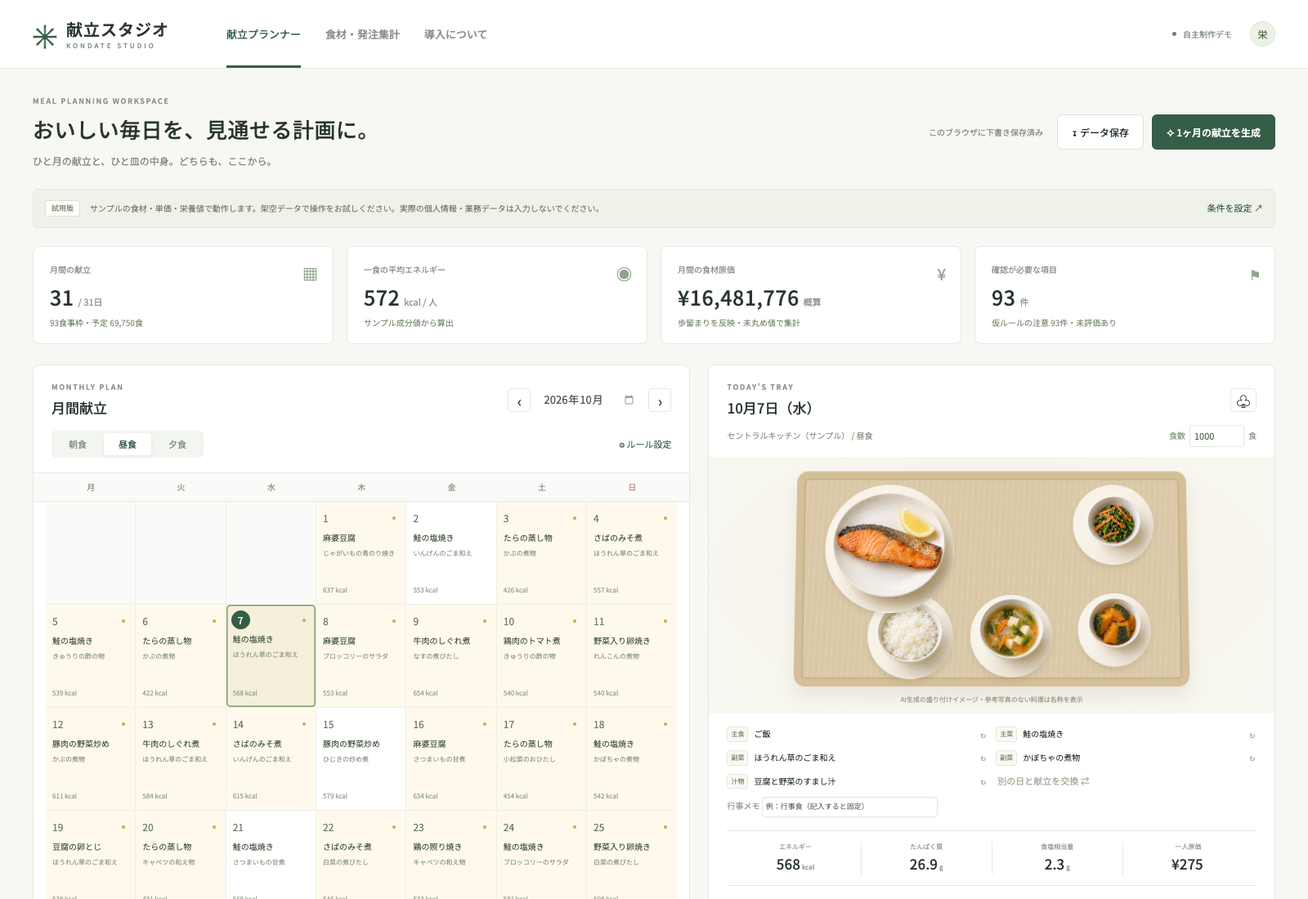
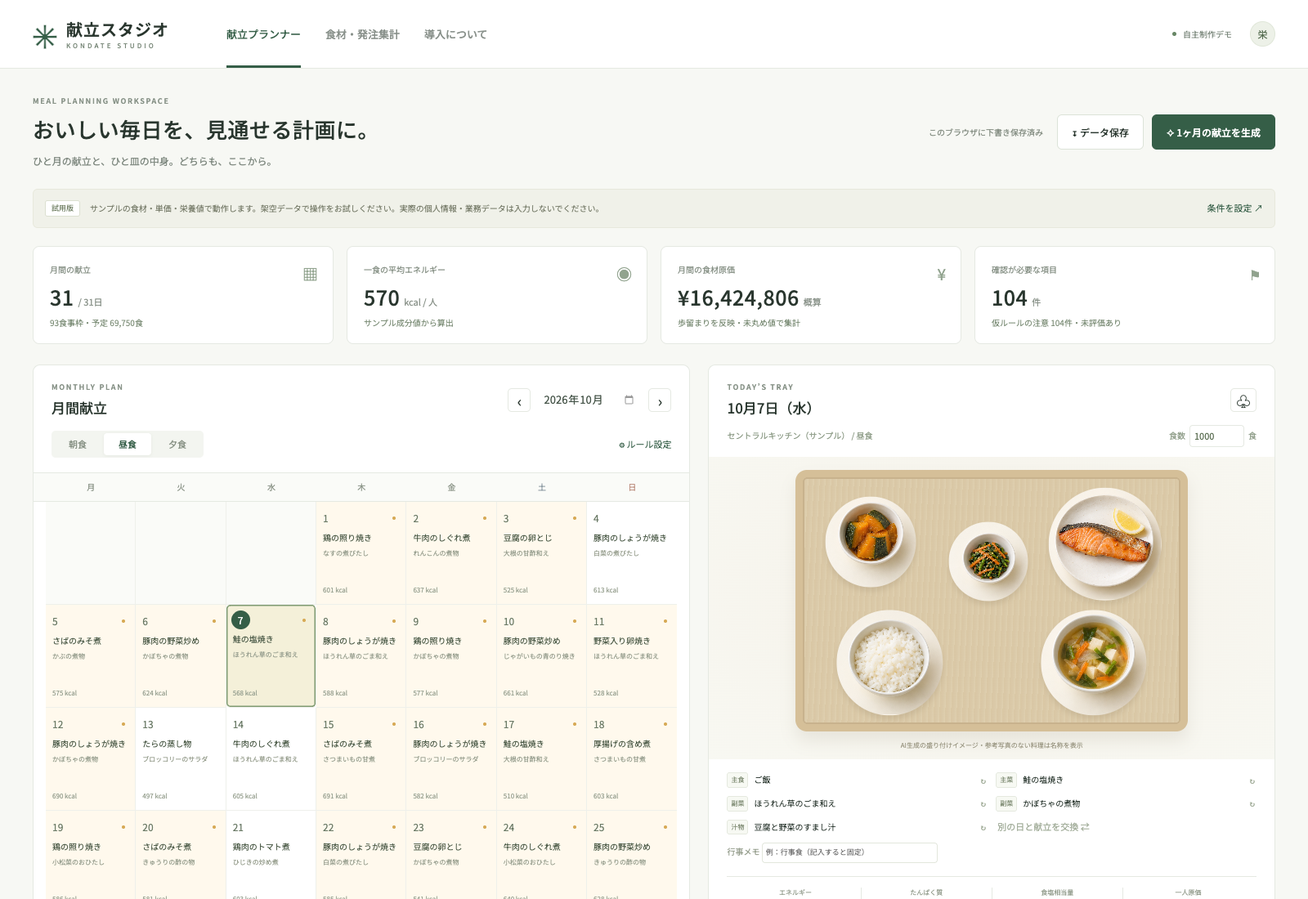
Arrange meal tray in traditional ichiju-sansai positions

diff --git a/demos/kondate-studio/style.css b/demos/kondate-studio/style.css
@@ -1,2 +1,12 @@
 @import url('https://fonts.googleapis.com/css2?family=Noto+Sans+JP:wght@400;500;600;700&display=swap');
-:root{--green:#355e47;--green-dark:#254532;--pale:#edf3ed;--ink:#29362e;--muted:#859087;--line:#e5e9e2;--amber:#bd8130;--red:#bd5145;--paper:#f7f8f4}*{box-sizing:border-box}body{margin:0;background:var(--paper);color:var(--ink);font-family:'Noto Sans JP',sans-serif;font-size:13px;line-height:1.6}button,input,select,textarea{font:inherit}button,a,input,select{touch-action:manipulation}button{cursor:pointer}button{color:inherit}button:focus-visible,a:focus-visible{outline:3px solid #c1d6b5;outline-offset:3px}button:disabled{cursor:not-allowed;opacity:.45}a{color:var(--green)}.topbar{height:84px;background:#fff;border-bottom:1px solid var(--line);display:flex;align-items:center;padding:0 40px;gap:70px}.brand{text-decoration:none;display:flex;align-items:center;gap:10px;color:var(--ink);font-size:20px;font-weight:600;letter-spacing:1px;line-height:1.4}.brand small{display:block;font-size:8px;letter-spacing:3px;font-weight:500;color:#7a897a}.brand-mark{font-size:40px;color:var(--green);line-height:1}.topbar nav{display:flex;height:100%;gap:30px}.nav{background:none;border:none;border-bottom:3px solid transparent;padding:4px 0 0;color:#8a928c;font-weight:500}.nav.active{border-bottom-color:var(--green);color:var(--green)}.top-right{margin-left:auto;display:flex;gap:8px;align-items:center;font-size:10px;color:#7a877b}.private-dot{height:5px;width:5px;background:#688766;border-radius:50%}.avatar{background:#edf1e8;border:1px solid #dfe6d8;border-radius:50%;width:31px;height:31px;display:grid;place-items:center;font-size:12px;margin-left:14px;color:#556c50}main{max-width:1680px;margin:auto;padding:33px 40px 0}.page-heading{display:flex;align-items:center;justify-content:space-between;gap:20px;margin-bottom:25px}.eyebrow{font-size:9px;letter-spacing:1.7px;color:#889388;font-weight:600}.page-heading h1{font-size:26px;font-weight:500;letter-spacing:.5px;margin:6px 0 8px}.page-heading p{color:#818b82;font-size:12px;margin:0}.heading-actions{display:flex;gap:10px;align-items:center}.heading-actions>span{font-size:10px;color:#889186;margin-right:7px}.button{border:1px solid transparent;border-radius:6px;padding:11px 17px;font-weight:500;font-size:12px}.primary{background:var(--green);color:#fff}.primary:hover{background:var(--green-dark)}.secondary{border-color:#dce3d8;background:#fff}.sample-banner{background:#f0f1e9;border:1px solid #e7e8dc;border-radius:6px;padding:11px 14px;display:flex;align-items:center;gap:12px;color:#7b806e;font-size:10px;margin-bottom:22px}.sample-banner .text-button{margin-left:auto;white-space:nowrap}.badge{background:#fff;border:1px solid #dce0d1;border-radius:3px;padding:2px 7px;color:#718064;font-size:9px;white-space:nowrap}.text-button{background:none;border:none;color:var(--green);font-size:11px;padding:3px 0}.metrics{display:grid;grid-template-columns:repeat(4,1fr);gap:16px;margin-bottom:25px}.metric{border:1px solid var(--line);background:#fff;border-radius:8px;padding:17px 20px;position:relative}.metric .metric-label{color:#8a9489;font-size:10px}.metric strong{display:block;font-size:25px;font-weight:500;line-height:1.5;letter-spacing:.5px;margin:5px 0}.metric strong small{font-size:11px;font-weight:400;letter-spacing:0;margin-left:5px;color:#8b948b}.metric .metric-note{font-size:10px;color:#7e8f79}.metric-icon{position:absolute;right:18px;top:18px;color:#91a38e;font-size:19px}.workspace{display:grid;grid-template-columns:minmax(0,1.16fr) minmax(390px,1fr);gap:22px;align-items:start}.card{border:1px solid var(--line);border-radius:9px;background:#fff;overflow:hidden}.panel-heading{display:flex;align-items:center;gap:10px;padding:20px 22px 14px}.panel-heading>div:first-child{margin-right:auto}.panel-heading h2{font-size:17px;line-height:1.6;font-weight:500;margin:4px 0 0}.icon-button{display:grid;place-items:center;min-width:28px;height:29px;background:#fff;border:1px solid var(--line);border-radius:5px;font-size:18px;line-height:1}.icon-button:hover{background:var(--pale)}#monthInput{border:0;width:124px;color:#445347;font-size:13px;background:#fff;min-width:0;padding:5px}input::-webkit-calendar-picker-indicator{opacity:.4}.calendar-toolbar{padding:0 22px 18px;display:flex;align-items:center;justify-content:space-between}.segmented{display:flex;background:#f3f5f0;padding:3px;border-radius:5px;gap:3px}.segmented button{border:0;border-radius:4px;background:transparent;padding:5px 18px;font-size:11px;color:#879184}.segmented button.active{background:white;box-shadow:0 1px 4px #203a1810;color:var(--green);font-weight:600}.weekday-row{display:grid;grid-template-columns:repeat(7,1fr);padding:0 15px;border-top:1px solid var(--line);border-bottom:1px solid var(--line);background:#fafbf8}.weekday-row span{text-align:center;font-size:10px;color:#8d968a;padding:9px}.weekday-row span:nth-child(6){color:#8e9ba4}.weekday-row span:nth-child(7){color:#bd8f80}.calendar{display:grid;grid-template-columns:repeat(7,minmax(0,1fr));padding:0 15px}.day-cell{position:relative;min-height:112px;border:0;border-bottom:1px solid #eef0eb;border-right:1px solid #eef0eb;background:#fff;text-align:left;padding:10px 8px;display:flex;flex-direction:column;gap:4px;overflow:hidden}.day-cell:nth-child(7n){border-right:0}.day-cell:hover{background:#f2f6ef}.day-cell.selected{background:#edf3e9;box-shadow:inset 0 0 0 1.5px #809b72;border-radius:5px;z-index:1}.day-cell.warn{background:#fff9ed}.day-cell.error{background:#fff2ef}.day-cell.selected.warn{background:#f4f0d9}.day-num{font-size:12px;color:#697965;display:flex;align-items:center;justify-content:space-between}.day-num .dot{width:4px;height:4px}.day-cell.selected .date-circle{background:var(--green);color:white;border-radius:50%;width:23px;height:23px;display:grid;place-items:center;margin:-3px -2px}.day-title{font-size:10px;line-height:1.65;color:#4e5d4a;margin-top:3px;overflow-wrap:anywhere}.day-side{font-size:8px;color:#9aa191;line-height:1.5}.day-kcal{font-size:8px;color:#99a292;margin-top:auto}.day-cell.empty{background:#fafbf8;pointer-events:none}.day-event{font-size:8px;color:#a07c3e;white-space:nowrap}.calendar-legend{display:flex;gap:20px;align-items:center;padding:16px 22px;color:#939c8f;font-size:9px}.dot{display:inline-block;width:6px;height:6px;border-radius:50%;margin-right:4px}.green{background:#87a27b}.amber{background:#d7aa56}.red{background:#cd7a69}.calendar-footer{padding:13px 22px;background:#fbfcf9;border-top:1px solid var(--line);display:flex;align-items:center;justify-content:space-between;color:#a0a799;font-size:9px}.day-panel .panel-heading{padding-bottom:7px}.day-meta{display:flex;justify-content:space-between;align-items:center;padding:0 22px 12px;color:#92a08c;font-size:10px}.day-meta label{display:flex;align-items:center;gap:5px}.day-meta input{width:67px;border:1px solid var(--line);border-radius:4px;padding:4px 5px;color:#566a4d;font-size:11px}.tray-area{background:radial-gradient(ellipse at 50% 45%,#f5f1e8,#f8f8f2);padding:16px 20px 10px}.tray{height:238px;max-width:440px;margin:auto;position:relative;background:repeating-linear-gradient(93deg,#d9c7a4 0px,#dac8a7 3px,#dbcbaa 5px,#dfcfaf 7px);border:9px solid #d5bf98;border-radius:14px;box-shadow:inset 0 0 0 2px #c8b28d,0 12px 20px #53442619;transform:perspective(900px) rotateX(4deg)}.tray-dish{position:absolute;border:0;border-radius:50%;box-shadow:0 5px 7px #6a593d25;background-color:#f5f1e7;overflow:hidden;transition:transform .2s;display:grid;place-items:center;padding:5px;font-size:10px;color:#55714b}.tray-dish:hover{transform:translateY(-4px)}.food-image{background-image:url('assets/food-sprite.png');background-size:300% 200%;background-repeat:no-repeat}.tray-dish.main{width:145px;height:145px;top:8px;left:12px}.tray-dish.side1{width:99px;height:99px;right:13px;top:8px}.tray-dish.side2{width:89px;height:89px;right:18px;bottom:10px}.tray-dish.rice{width:104px;height:104px;left:55px;bottom:0px}.tray-dish.soup{width:100px;height:100px;left:170px;bottom:2px}.tray-caption{font-size:8px;text-align:center;color:#a4a18e;padding-top:11px}.dish-list{display:grid;grid-template-columns:1fr 1fr;gap:10px;padding:16px 22px}.dish-row{display:flex;align-items:center;gap:7px;min-width:0}.dish-row .dish-type{font-size:8px;color:#85917a;border:1px solid #e5e9df;background:#f7f9f3;padding:2px 4px;border-radius:3px;white-space:nowrap}.dish-row .dish-name{font-size:10px;flex:1;overflow:hidden;text-overflow:ellipsis;white-space:nowrap}.dish-row button{font-size:11px;background:none;border:0;color:#a4af9c;padding:0 2px}.daily-nutrition{display:flex;margin:0 22px 15px;padding:13px 4px;border-top:1px solid var(--line);border-bottom:1px solid var(--line)}.nutrient{flex:1;border-right:1px solid var(--line);text-align:center}.nutrient:last-child{border:0}.nutrient small{display:block;font-size:8px;color:#969f90}.nutrient strong{display:block;font-size:17px;font-weight:500;line-height:1.6}.nutrient strong em{font-size:8px;font-style:normal;margin-left:2px;color:#929b8b}.day-tabs{display:flex;border-bottom:1px solid var(--line);padding:0 22px;gap:25px}.day-tabs button{border:0;background:none;padding:9px 0;font-size:10px;color:#939d8d;border-bottom:2px solid transparent}.day-tabs button.active{border-color:var(--green);color:var(--green)}#detailBody{padding:8px 22px 18px;max-height:275px;overflow:auto}.ingredients-table{border-collapse:collapse;width:100%;font-size:10px;text-align:left}.ingredients-table th{font-size:8px;font-weight:400;color:#9aa38f;padding:8px 4px}.ingredients-table td{border-top:1px solid #f0f2ec;padding:8px 4px;color:#69735e}.ingredients-table td.number{text-align:right;font-variant-numeric:tabular-nums}.ingredients-table th.number{text-align:right}.table-note{font-size:8px;color:#a1a895;margin-top:10px}.bottom-grid{display:grid;grid-template-columns:1.16fr 1fr;gap:22px;margin-top:22px}.summary-card{padding-bottom:17px}.summary-card .panel-heading h2{font-size:15px}.summary-card .panel-heading{padding-bottom:12px}.check-row{display:flex;align-items:center;padding:8px 22px;font-size:10px;gap:9px}.check-row .count{margin-left:auto}.check-icon{background:#edf3e8;border-radius:50%;color:#6e8d5f;width:18px;height:18px;display:grid;place-items:center;font-size:10px}.check-icon.warn{background:#fcf1db;color:#b48230}.check-icon.unknown{background:#f1f2ef;color:#a4ab9c}.muted{color:#9aa292}.small{font-size:10px}#notes{display:block;width:calc(100% - 44px);margin:0 22px;height:103px;resize:vertical;border:1px solid #e7ebdf;border-radius:5px;background:#fbfcf8;padding:12px;font-size:10px;line-height:1.9;color:#65745c}textarea::placeholder{color:#b2b8a6}footer{display:flex;align-items:center;padding:25px 0;font-size:10px;color:#7c8b71;gap:17px}footer span{font-size:9px;color:#a7ae9f}footer button{margin-left:auto}.alternate-view{padding:28px;min-height:600px}.alternate-view h2{font-weight:500;font-size:21px;margin-top:0}.alternate-view .ingredients-table{font-size:12px}.alternate-view .ingredients-table th{font-size:11px}.alternate-view .ingredients-table td{padding:12px 6px}.section-intro{color:#87927d;margin-bottom:25px;font-size:12px}.source-block{border-bottom:1px solid var(--line);padding:15px 0}.source-block h3{font-size:14px;font-weight:500}.source-block p{font-size:12px;line-height:1.9;color:#7e8c72}.source-block small{color:#a1ab98}dialog{border:1px solid #e0e7d8;border-radius:12px;padding:25px;width:min(660px,calc(100vw - 32px));max-height:88vh;color:var(--ink);box-shadow:0 25px 80px #17281830}dialog::backdrop{background:#1a2e244f;backdrop-filter:blur(3px)}.dialog-header{display:flex;justify-content:space-between;align-items:center;margin-bottom:20px}.dialog-header h2{font-size:20px;font-weight:500;margin:4px 0}.dialog-actions{display:flex;justify-content:flex-end;gap:10px;margin-top:20px}.settings-grid{display:grid;grid-template-columns:1fr 1fr;gap:16px}.field{display:flex;flex-direction:column;gap:6px;font-size:11px}.field input,.field select{border:1px solid #dce4d4;padding:9px;border-radius:5px;background:#fff;width:100%}.field small{color:#97a28d;font-size:9px}.settings-section{margin:22px 0 12px;border-bottom:1px solid var(--line);padding-bottom:7px;font-size:12px;font-weight:500}.check-label{display:flex;align-items:center;gap:8px;font-size:11px;margin:10px 0}.swap-option{display:flex;align-items:center;border:1px solid var(--line);background:#fff;border-radius:7px;text-align:left;width:100%;padding:13px;margin:8px 0;gap:12px}.swap-option:hover{border-color:#93ad82;background:#f5f8f0}.swap-option>div:first-child{flex:1}.swap-option strong{font-size:12px;font-weight:500}.swap-option small{display:block;font-size:9px;color:#94a086}.swap-option.selected{border-color:var(--green)}.issue{padding:11px 12px;border:1px solid #f0e1c3;background:#fff9ee;border-radius:6px;margin:8px 0;color:#9a7533;font-size:10px;line-height:1.8}.issue.error{background:#fff1ef;border-color:#f0d2cb;color:#a65d4f}.issue.unknown{background:#f5f6f2;color:#8a947c;border-color:#e7ebdf}.issue button{display:block;font-size:10px;background:none;border:0;color:var(--green);margin-top:5px}.success{padding:15px;color:var(--green);background:#f0f6e9;border-radius:6px;font-size:11px}.report-group{margin:18px 0}.report-group h3{font-size:13px;font-weight:500}.toast-enter,#toast.show{opacity:1;transform:translate(-50%,0)}#toast{position:fixed;bottom:28px;left:50%;transform:translate(-50%,15px);background:#314e3a;color:#fff;border-radius:7px;padding:12px 22px;font-size:12px;box-shadow:0 8px 30px #17321b30;opacity:0;transition:.2s;pointer-events:none;z-index:9;max-width:90vw}.month-controls{display:flex;gap:12px;align-items:center;margin:15px 0}.empty-state{color:#9ba590;padding:30px;text-align:center}.report-totals{padding:15px;background:#f3f6ed;border-radius:6px;font-size:12px;margin:18px 0}.receipt-status{font-size:9px;color:#8f9983}.review-action{margin:14px 22px;padding:12px;border:1px solid var(--line);border-radius:5px}.review-action button{width:100%}.review-action small{display:block;text-align:center;margin-top:6px;font-size:9px;color:#9ba48d}[hidden]{display:none!important}@media(min-width:1450px){.day-cell{min-height:126px}.tray{height:264px;max-width:480px}.tray-dish.main{left:27px;width:158px;height:158px}.tray-dish.rice{left:80px}.tray-dish.soup{left:205px}.tray-dish.side1{right:32px}.tray-dish.side2{right:37px;bottom:15px}}@media(max-width:1150px){.topbar{gap:35px;padding:0 24px}.topbar nav{gap:20px}main{padding:25px 24px 0}.heading-actions>span{display:none}.page-heading h1{font-size:22px}.workspace{grid-template-columns:minmax(0,1.1fr) minmax(350px,1fr);gap:15px}.panel-heading{padding-left:15px;padding-right:15px}.day-cell{padding:8px 5px;min-height:110px}.calendar{padding:0 8px}.tray-area{padding-left:12px;padding-right:12px}.tray{height:220px}.tray-dish.main{width:130px;height:130px}.tray-dish.rice{left:35px;width:92px;height:92px}.tray-dish.soup{left:142px;width:90px;height:90px}.tray-dish.side1{width:85px;height:85px}.tray-dish.side2{width:80px;height:80px;right:11px}.day-title{font-size:9px}.dish-list{padding:15px}.calendar-legend{gap:12px;padding:15px;font-size:8px}.calendar-footer{padding:10px 15px;font-size:8px}.metric{padding:15px}.metric strong{font-size:22px}}@media(max-width:900px){.workspace{grid-template-columns:1fr}.day-panel{display:grid;grid-template-columns:1fr 1fr}.day-panel .panel-heading,.day-panel .day-meta{grid-column:1/-1}.tray-area{grid-row:3/6}.dish-list{grid-column:2;grid-template-columns:1fr;align-content:start}.daily-nutrition{grid-column:2;align-self:end}.day-tabs,#detailBody{grid-column:1/-1}.tray{max-width:370px;height:230px}.bottom-grid{grid-template-columns:1fr 1fr}.page-heading{align-items:flex-start}.heading-actions{flex-direction:column}.heading-actions .button{padding:8px 12px;font-size:11px}.day-cell{min-height:115px}.day-title{font-size:11px}.day-side{font-size:9px}.metric strong{font-size:20px}.top-right{display:none}}@media(max-width:600px){.topbar{height:auto;min-height:70px;flex-wrap:wrap;gap:10px;padding:16px 18px 0}.brand{font-size:17px}.brand-mark{font-size:33px}.topbar nav{width:100%;gap:24px;height:39px}.nav{font-size:11px}main{padding:23px 14px 0}.page-heading{flex-direction:column;gap:18px}.page-heading h1{font-size:21px}.page-heading p{font-size:10px}.heading-actions{flex-direction:row;width:100%}.heading-actions .button{flex:1}.sample-banner{align-items:flex-start;font-size:9px;padding:10px;gap:8px}.sample-banner .text-button{display:none}.metrics{grid-template-columns:1fr 1fr;gap:8px;margin-bottom:16px}.metric{padding:13px}.metric strong{font-size:22px;margin:4px 0}.metric-icon{right:12px;top:12px;font-size:16px}.metric-note{font-size:9px!important}.panel-heading{padding:16px 12px 12px;gap:5px}.panel-heading h2{font-size:15px}.eyebrow{font-size:8px}#monthInput{font-size:12px;width:119px}.calendar-toolbar{padding:0 12px 12px}.segmented button{padding:5px 16px}.calendar{padding:0 6px}.day-cell{padding:8px 3px;min-height:108px;gap:2px}.day-num{font-size:10px}.day-title{font-size:9px;line-height:1.55}.day-side{font-size:7px}.day-kcal{font-size:7px}.day-event{font-size:7px;white-space:normal}.calendar-legend{font-size:8px;gap:11px;padding:13px 10px}.calendar-footer>span{max-width:220px}.day-panel{display:block}.day-panel .tray-area{padding:18px}.day-panel .dish-list{display:grid;grid-template-columns:1fr 1fr}.tray{height:225px;max-width:355px}.tray-dish.main{left:15px}.tray-dish.side1{right:20px}.tray-dish.side2{right:24px}.tray-dish.soup{left:151px}.tray-dish.rice{left:43px}.bottom-grid{grid-template-columns:1fr;gap:15px;margin-top:15px}.alternate-view{padding:17px;overflow-x:auto}.settings-grid{grid-template-columns:1fr 1fr;gap:12px}.field{font-size:10px}.field small{font-size:8px}footer{flex-wrap:wrap;font-size:9px;gap:10px}footer span{font-size:8px}footer button{font-size:9px}.report-totals{font-size:10px}}@media print{.topbar,.heading-actions,.sample-banner,.day-panel,.bottom-grid,footer,.calendar-toolbar,.text-button,.metrics{display:none}.workspace{display:block}.calendar-panel{border:0}.calendar{padding:0}.day-cell{min-height:130px}main{padding:0}.page-heading h1{font-size:22px}.page-heading p{display:none}.calendar-legend{display:none}}
+:root{--green:#355e47;--green-dark:#254532;--pale:#edf3ed;--ink:#29362e;--muted:#859087;--line:#e5e9e2;--amber:#bd8130;--red:#bd5145;--paper:#f7f8f4}*{box-sizing:border-box}body{margin:0;background:var(--paper);color:var(--ink);font-family:'Noto Sans JP',sans-serif;font-size:13px;line-height:1.6}button,input,select,textarea{font:inherit}button,a,input,select{touch-action:manipulation}button{cursor:pointer}button{color:inherit}button:focus-visible,a:focus-visible{outline:3px solid #c1d6b5;outline-offset:3px}button:disabled{cursor:not-allowed;opacity:.45}a{color:var(--green)}.topbar{height:84px;background:#fff;border-bottom:1px solid var(--line);display:flex;align-items:center;padding:0 40px;gap:70px}.brand{text-decoration:none;display:flex;align-items:center;gap:10px;color:var(--ink);font-size:20px;font-weight:600;letter-spacing:1px;line-height:1.4}.brand small{display:block;font-size:8px;letter-spacing:3px;font-weight:500;color:#7a897a}.brand-mark{font-size:40px;color:var(--green);line-height:1}.topbar nav{display:flex;height:100%;gap:30px}.nav{background:none;border:none;border-bottom:3px solid transparent;padding:4px 0 0;color:#8a928c;font-weight:500}.nav.active{border-bottom-color:var(--green);color:var(--green)}.top-right{margin-left:auto;display:flex;gap:8px;align-items:center;font-size:10px;color:#7a877b}.private-dot{height:5px;width:5px;background:#688766;border-radius:50%}.avatar{background:#edf1e8;border:1px solid #dfe6d8;border-radius:50%;width:31px;height:31px;display:grid;place-items:center;font-size:12px;margin-left:14px;color:#556c50}main{max-width:1680px;margin:auto;padding:33px 40px 0}.page-heading{display:flex;align-items:center;justify-content:space-between;gap:20px;margin-bottom:25px}.eyebrow{font-size:9px;letter-spacing:1.7px;color:#889388;font-weight:600}.page-heading h1{font-size:26px;font-weight:500;letter-spacing:.5px;margin:6px 0 8px}.page-heading p{color:#818b82;font-size:12px;margin:0}.heading-actions{display:flex;gap:10px;align-items:center}.heading-actions>span{font-size:10px;color:#889186;margin-right:7px}.button{border:1px solid transparent;border-radius:6px;padding:11px 17px;font-weight:500;font-size:12px}.primary{background:var(--green);color:#fff}.primary:hover{background:var(--green-dark)}.secondary{border-color:#dce3d8;background:#fff}.sample-banner{background:#f0f1e9;border:1px solid #e7e8dc;border-radius:6px;padding:11px 14px;display:flex;align-items:center;gap:12px;color:#7b806e;font-size:10px;margin-bottom:22px}.sample-banner .text-button{margin-left:auto;white-space:nowrap}.badge{background:#fff;border:1px solid #dce0d1;border-radius:3px;padding:2px 7px;color:#718064;font-size:9px;white-space:nowrap}.text-button{background:none;border:none;color:var(--green);font-size:11px;padding:3px 0}.metrics{display:grid;grid-template-columns:repeat(4,1fr);gap:16px;margin-bottom:25px}.metric{border:1px solid var(--line);background:#fff;border-radius:8px;padding:17px 20px;position:relative}.metric .metric-label{color:#8a9489;font-size:10px}.metric strong{display:block;font-size:25px;font-weight:500;line-height:1.5;letter-spacing:.5px;margin:5px 0}.metric strong small{font-size:11px;font-weight:400;letter-spacing:0;margin-left:5px;color:#8b948b}.metric .metric-note{font-size:10px;color:#7e8f79}.metric-icon{position:absolute;right:18px;top:18px;color:#91a38e;font-size:19px}.workspace{display:grid;grid-template-columns:minmax(0,1.16fr) minmax(390px,1fr);gap:22px;align-items:start}.card{border:1px solid var(--line);border-radius:9px;background:#fff;overflow:hidden}.panel-heading{display:flex;align-items:center;gap:10px;padding:20px 22px 14px}.panel-heading>div:first-child{margin-right:auto}.panel-heading h2{font-size:17px;line-height:1.6;font-weight:500;margin:4px 0 0}.icon-button{display:grid;place-items:center;min-width:28px;height:29px;background:#fff;border:1px solid var(--line);border-radius:5px;font-size:18px;line-height:1}.icon-button:hover{background:var(--pale)}#monthInput{border:0;width:124px;color:#445347;font-size:13px;background:#fff;min-width:0;padding:5px}input::-webkit-calendar-picker-indicator{opacity:.4}.calendar-toolbar{padding:0 22px 18px;display:flex;align-items:center;justify-content:space-between}.segmented{display:flex;background:#f3f5f0;padding:3px;border-radius:5px;gap:3px}.segmented button{border:0;border-radius:4px;background:transparent;padding:5px 18px;font-size:11px;color:#879184}.segmented button.active{background:white;box-shadow:0 1px 4px #203a1810;color:var(--green);font-weight:600}.weekday-row{display:grid;grid-template-columns:repeat(7,1fr);padding:0 15px;border-top:1px solid var(--line);border-bottom:1px solid var(--line);background:#fafbf8}.weekday-row span{text-align:center;font-size:10px;color:#8d968a;padding:9px}.weekday-row span:nth-child(6){color:#8e9ba4}.weekday-row span:nth-child(7){color:#bd8f80}.calendar{display:grid;grid-template-columns:repeat(7,minmax(0,1fr));padding:0 15px}.day-cell{position:relative;min-height:112px;border:0;border-bottom:1px solid #eef0eb;border-right:1px solid #eef0eb;background:#fff;text-align:left;padding:10px 8px;display:flex;flex-direction:column;gap:4px;overflow:hidden}.day-cell:nth-child(7n){border-right:0}.day-cell:hover{background:#f2f6ef}.day-cell.selected{background:#edf3e9;box-shadow:inset 0 0 0 1.5px #809b72;border-radius:5px;z-index:1}.day-cell.warn{background:#fff9ed}.day-cell.error{background:#fff2ef}.day-cell.selected.warn{background:#f4f0d9}.day-num{font-size:12px;color:#697965;display:flex;align-items:center;justify-content:space-between}.day-num .dot{width:4px;height:4px}.day-cell.selected .date-circle{background:var(--green);color:white;border-radius:50%;width:23px;height:23px;display:grid;place-items:center;margin:-3px -2px}.day-title{font-size:10px;line-height:1.65;color:#4e5d4a;margin-top:3px;overflow-wrap:anywhere}.day-side{font-size:8px;color:#9aa191;line-height:1.5}.day-kcal{font-size:8px;color:#99a292;margin-top:auto}.day-cell.empty{background:#fafbf8;pointer-events:none}.day-event{font-size:8px;color:#a07c3e;white-space:nowrap}.calendar-legend{display:flex;gap:20px;align-items:center;padding:16px 22px;color:#939c8f;font-size:9px}.dot{display:inline-block;width:6px;height:6px;border-radius:50%;margin-right:4px}.green{background:#87a27b}.amber{background:#d7aa56}.red{background:#cd7a69}.calendar-footer{padding:13px 22px;background:#fbfcf9;border-top:1px solid var(--line);display:flex;align-items:center;justify-content:space-between;color:#a0a799;font-size:9px}.day-panel .panel-heading{padding-bottom:7px}.day-meta{display:flex;justify-content:space-between;align-items:center;padding:0 22px 12px;color:#92a08c;font-size:10px}.day-meta label{display:flex;align-items:center;gap:5px}.day-meta input{width:67px;border:1px solid var(--line);border-radius:4px;padding:4px 5px;color:#566a4d;font-size:11px}.tray-area{background:radial-gradient(ellipse at 50% 45%,#f5f1e8,#f8f8f2);padding:16px 20px 10px}.tray{width:100%;height:auto;aspect-ratio:3/2;max-width:480px;margin:auto;position:relative;background:repeating-linear-gradient(93deg,#d9c7a4 0px,#dac8a7 3px,#dbcbaa 5px,#dfcfaf 7px);border:9px solid #d5bf98;border-radius:14px;box-shadow:inset 0 0 0 2px #c8b28d,0 12px 20px #53442619;transform:none}.tray-dish{position:absolute;border:0;border-radius:50%;box-shadow:0 5px 7px #6a593d25;background-color:#f5f1e7;overflow:hidden;transition:transform .2s;display:grid;place-items:center;padding:5px;font-size:10px;color:#55714b}.tray-dish:hover{transform:translateY(-4px)}.food-image{background-image:url('assets/food-sprite.png');background-size:300% 200%;background-repeat:no-repeat}.tray-caption{font-size:8px;text-align:center;color:#a4a18e;padding-top:11px}.dish-list{display:grid;grid-template-columns:1fr 1fr;gap:10px;padding:16px 22px}.dish-row{display:flex;align-items:center;gap:7px;min-width:0}.dish-row .dish-type{font-size:8px;color:#85917a;border:1px solid #e5e9df;background:#f7f9f3;padding:2px 4px;border-radius:3px;white-space:nowrap}.dish-row .dish-name{font-size:10px;flex:1;overflow:hidden;text-overflow:ellipsis;white-space:nowrap}.dish-row button{font-size:11px;background:none;border:0;color:#a4af9c;padding:0 2px}.daily-nutrition{display:flex;margin:0 22px 15px;padding:13px 4px;border-top:1px solid var(--line);border-bottom:1px solid var(--line)}.nutrient{flex:1;border-right:1px solid var(--line);text-align:center}.nutrient:last-child{border:0}.nutrient small{display:block;font-size:8px;color:#969f90}.nutrient strong{display:block;font-size:17px;font-weight:500;line-height:1.6}.nutrient strong em{font-size:8px;font-style:normal;margin-left:2px;color:#929b8b}.day-tabs{display:flex;border-bottom:1px solid var(--line);padding:0 22px;gap:25px}.day-tabs button{border:0;background:none;padding:9px 0;font-size:10px;color:#939d8d;border-bottom:2px solid transparent}.day-tabs button.active{border-color:var(--green);color:var(--green)}#detailBody{padding:8px 22px 18px;max-height:275px;overflow:auto}.ingredients-table{border-collapse:collapse;width:100%;font-size:10px;text-align:left}.ingredients-table th{font-size:8px;font-weight:400;color:#9aa38f;padding:8px 4px}.ingredients-table td{border-top:1px solid #f0f2ec;padding:8px 4px;color:#69735e}.ingredients-table td.number{text-align:right;font-variant-numeric:tabular-nums}.ingredients-table th.number{text-align:right}.table-note{font-size:8px;color:#a1a895;margin-top:10px}.bottom-grid{display:grid;grid-template-columns:1.16fr 1fr;gap:22px;margin-top:22px}.summary-card{padding-bottom:17px}.summary-card .panel-heading h2{font-size:15px}.summary-card .panel-heading{padding-bottom:12px}.check-row{display:flex;align-items:center;padding:8px 22px;font-size:10px;gap:9px}.check-row .count{margin-left:auto}.check-icon{background:#edf3e8;border-radius:50%;color:#6e8d5f;width:18px;height:18px;display:grid;place-items:center;font-size:10px}.check-icon.warn{background:#fcf1db;color:#b48230}.check-icon.unknown{background:#f1f2ef;color:#a4ab9c}.muted{color:#9aa292}.small{font-size:10px}#notes{display:block;width:calc(100% - 44px);margin:0 22px;height:103px;resize:vertical;border:1px solid #e7ebdf;border-radius:5px;background:#fbfcf8;padding:12px;font-size:10px;line-height:1.9;color:#65745c}textarea::placeholder{color:#b2b8a6}footer{display:flex;align-items:center;padding:25px 0;font-size:10px;color:#7c8b71;gap:17px}footer span{font-size:9px;color:#a7ae9f}footer button{margin-left:auto}.alternate-view{padding:28px;min-height:600px}.alternate-view h2{font-weight:500;font-size:21px;margin-top:0}.alternate-view .ingredients-table{font-size:12px}.alternate-view .ingredients-table th{font-size:11px}.alternate-view .ingredients-table td{padding:12px 6px}.section-intro{color:#87927d;margin-bottom:25px;font-size:12px}.source-block{border-bottom:1px solid var(--line);padding:15px 0}.source-block h3{font-size:14px;font-weight:500}.source-block p{font-size:12px;line-height:1.9;color:#7e8c72}.source-block small{color:#a1ab98}dialog{border:1px solid #e0e7d8;border-radius:12px;padding:25px;width:min(660px,calc(100vw - 32px));max-height:88vh;color:var(--ink);box-shadow:0 25px 80px #17281830}dialog::backdrop{background:#1a2e244f;backdrop-filter:blur(3px)}.dialog-header{display:flex;justify-content:space-between;align-items:center;margin-bottom:20px}.dialog-header h2{font-size:20px;font-weight:500;margin:4px 0}.dialog-actions{display:flex;justify-content:flex-end;gap:10px;margin-top:20px}.settings-grid{display:grid;grid-template-columns:1fr 1fr;gap:16px}.field{display:flex;flex-direction:column;gap:6px;font-size:11px}.field input,.field select{border:1px solid #dce4d4;padding:9px;border-radius:5px;background:#fff;width:100%}.field small{color:#97a28d;font-size:9px}.settings-section{margin:22px 0 12px;border-bottom:1px solid var(--line);padding-bottom:7px;font-size:12px;font-weight:500}.check-label{display:flex;align-items:center;gap:8px;font-size:11px;margin:10px 0}.swap-option{display:flex;align-items:center;border:1px solid var(--line);background:#fff;border-radius:7px;text-align:left;width:100%;padding:13px;margin:8px 0;gap:12px}.swap-option:hover{border-color:#93ad82;background:#f5f8f0}.swap-option>div:first-child{flex:1}.swap-option strong{font-size:12px;font-weight:500}.swap-option small{display:block;font-size:9px;color:#94a086}.swap-option.selected{border-color:var(--green)}.issue{padding:11px 12px;border:1px solid #f0e1c3;background:#fff9ee;border-radius:6px;margin:8px 0;color:#9a7533;font-size:10px;line-height:1.8}.issue.error{background:#fff1ef;border-color:#f0d2cb;color:#a65d4f}.issue.unknown{background:#f5f6f2;color:#8a947c;border-color:#e7ebdf}.issue button{display:block;font-size:10px;background:none;border:0;color:var(--green);margin-top:5px}.success{padding:15px;color:var(--green);background:#f0f6e9;border-radius:6px;font-size:11px}.report-group{margin:18px 0}.report-group h3{font-size:13px;font-weight:500}.toast-enter,#toast.show{opacity:1;transform:translate(-50%,0)}#toast{position:fixed;bottom:28px;left:50%;transform:translate(-50%,15px);background:#314e3a;color:#fff;border-radius:7px;padding:12px 22px;font-size:12px;box-shadow:0 8px 30px #17321b30;opacity:0;transition:.2s;pointer-events:none;z-index:9;max-width:90vw}.month-controls{display:flex;gap:12px;align-items:center;margin:15px 0}.empty-state{color:#9ba590;padding:30px;text-align:center}.report-totals{padding:15px;background:#f3f6ed;border-radius:6px;font-size:12px;margin:18px 0}.receipt-status{font-size:9px;color:#8f9983}.review-action{margin:14px 22px;padding:12px;border:1px solid var(--line);border-radius:5px}.review-action button{width:100%}.review-action small{display:block;text-align:center;margin-top:6px;font-size:9px;color:#9ba48d}[hidden]{display:none!important}@media(min-width:1450px){.day-cell{min-height:126px}}@media(max-width:1150px){.topbar{gap:35px;padding:0 24px}.topbar nav{gap:20px}main{padding:25px 24px 0}.heading-actions>span{display:none}.page-heading h1{font-size:22px}.workspace{grid-template-columns:minmax(0,1.1fr) minmax(350px,1fr);gap:15px}.panel-heading{padding-left:15px;padding-right:15px}.day-cell{padding:8px 5px;min-height:110px}.calendar{padding:0 8px}.tray-area{padding-left:12px;padding-right:12px}.day-title{font-size:9px}.dish-list{padding:15px}.calendar-legend{gap:12px;padding:15px;font-size:8px}.calendar-footer{padding:10px 15px;font-size:8px}.metric{padding:15px}.metric strong{font-size:22px}}@media(max-width:900px){.workspace{grid-template-columns:1fr}.day-panel{display:grid;grid-template-columns:1fr 1fr}.day-panel .panel-heading,.day-panel .day-meta{grid-column:1/-1}.tray-area{grid-row:3/6}.dish-list{grid-column:2;grid-template-columns:1fr;align-content:start}.daily-nutrition{grid-column:2;align-self:end}.day-tabs,#detailBody{grid-column:1/-1}.bottom-grid{grid-template-columns:1fr 1fr}.page-heading{align-items:flex-start}.heading-actions{flex-direction:column}.heading-actions .button{padding:8px 12px;font-size:11px}.day-cell{min-height:115px}.day-title{font-size:11px}.day-side{font-size:9px}.metric strong{font-size:20px}.top-right{display:none}}@media(max-width:600px){.topbar{height:auto;min-height:70px;flex-wrap:wrap;gap:10px;padding:16px 18px 0}.brand{font-size:17px}.brand-mark{font-size:33px}.topbar nav{width:100%;gap:24px;height:39px}.nav{font-size:11px}main{padding:23px 14px 0}.page-heading{flex-direction:column;gap:18px}.page-heading h1{font-size:21px}.page-heading p{font-size:10px}.heading-actions{flex-direction:row;width:100%}.heading-actions .button{flex:1}.sample-banner{align-items:flex-start;font-size:9px;padding:10px;gap:8px}.sample-banner .text-button{display:none}.metrics{grid-template-columns:1fr 1fr;gap:8px;margin-bottom:16px}.metric{padding:13px}.metric strong{font-size:22px;margin:4px 0}.metric-icon{right:12px;top:12px;font-size:16px}.metric-note{font-size:9px!important}.panel-heading{padding:16px 12px 12px;gap:5px}.panel-heading h2{font-size:15px}.eyebrow{font-size:8px}#monthInput{font-size:12px;width:119px}.calendar-toolbar{padding:0 12px 12px}.segmented button{padding:5px 16px}.calendar{padding:0 6px}.day-cell{padding:8px 3px;min-height:108px;gap:2px}.day-num{font-size:10px}.day-title{font-size:9px;line-height:1.55}.day-side{font-size:7px}.day-kcal{font-size:7px}.day-event{font-size:7px;white-space:normal}.calendar-legend{font-size:8px;gap:11px;padding:13px 10px}.calendar-footer>span{max-width:220px}.day-panel{display:block}.day-panel .tray-area{padding:18px}.day-panel .dish-list{display:grid;grid-template-columns:1fr 1fr}.bottom-grid{grid-template-columns:1fr;gap:15px;margin-top:15px}.alternate-view{padding:17px;overflow-x:auto}.settings-grid{grid-template-columns:1fr 1fr;gap:12px}.field{font-size:10px}.field small{font-size:8px}footer{flex-wrap:wrap;font-size:9px;gap:10px}footer span{font-size:8px}footer button{font-size:9px}.report-totals{font-size:10px}}@media print{.topbar,.heading-actions,.sample-banner,.day-panel,.bottom-grid,footer,.calendar-toolbar,.text-button,.metrics{display:none}.workspace{display:block}.calendar-panel{border:0}.calendar{padding:0}.day-cell{min-height:130px}main{padding:0}.page-heading h1{font-size:22px}.page-heading p{display:none}.calendar-legend{display:none}}
+
+/* 一汁三菜：左手前=ご飯、右手前=汁物、右奥=主菜、左奥=副菜、中央=小鉢。 */
+.tray-dish{aspect-ratio:1;height:auto;transform:translate(-50%,-50%);font-size:clamp(9px,1.2vw,12px);line-height:1.6;overflow-wrap:anywhere}
+.tray-dish:hover{transform:translate(-50%,calc(-50% - 3px))}
+.tray-dish.rice{width:28%;left:23%;top:75%;right:auto;bottom:auto}
+.tray-dish.soup{width:28%;left:77%;top:75%;right:auto;bottom:auto}
+.tray-dish.main{width:30%;left:80%;top:27%;right:auto;bottom:auto}
+.tray-dish.side2{width:24%;left:18%;top:26%;right:auto;bottom:auto}
+.tray-dish.side1{width:21%;left:49%;top:34%;right:auto;bottom:auto}
+.tray .empty-state{position:absolute;inset:0;display:grid;place-items:center}

diff --git a/demos/kondate-studio/index.html b/demos/kondate-studio/index.html
@@ -5,7 +5,7 @@
 <div class="sample-banner"><span class="badge">試用版</span><span>サンプルの食材・単価・栄養値で動作します。架空データで操作をお試しください。実際の個人情報・業務データは入力しないでください。</span><button class="text-button" id="settingsBtn">条件を設定 ↗</button></div>
 <section class="metrics" id="metrics"></section>
 <div id="plannerView"><section class="workspace"><div class="calendar-panel card"><div class="panel-heading"><div><div class="eyebrow">MONTHLY PLAN</div><h2>月間献立</h2></div><button class="icon-button" id="prevMonth" aria-label="前の月">‹</button><input aria-label="対象月" id="monthInput" type="month"><button class="icon-button" id="nextMonth" aria-label="次の月">›</button></div><div class="calendar-toolbar"><div class="segmented" id="mealTabs"></div><button class="text-button" id="ruleBtn">⚙ ルール設定</button></div><div class="weekday-row"><span>月</span><span>火</span><span>水</span><span>木</span><span>金</span><span>土</span><span>日</span></div><div class="calendar" id="calendar"></div><div class="calendar-legend"><span><i class="dot green"></i>設定ルール内</span><span><i class="dot amber"></i>要確認</span><span>▣ 固定した献立</span></div><div class="calendar-footer"><span>日付を選ぶと、その日の献立を確認できます。</span><button class="text-button" id="printBtn">印刷 ↗</button></div></div>
-<aside class="day-panel card"><div class="panel-heading"><div><div class="eyebrow">TODAY’S TRAY</div><h2 id="dayHeading"></h2></div><button class="icon-button" id="lockBtn" title="選択日の献立を固定"></button></div><div class="day-meta"><span id="daySub"></span><label>食数 <input id="countInput" type="number" min="0" max="100000" aria-label="選択日の食数"> 食</label></div><div class="tray-area"><div class="tray" id="tray"></div><div class="tray-caption">AI生成の盛り付けイメージ・参考写真のない料理は名称を表示</div></div><div id="dishList" class="dish-list"></div><div class="daily-nutrition" id="dailyNutrition"></div><div class="day-tabs"><button class="active" data-detail="ingredients">食材と必要量</button><button data-detail="checks">チェック結果 <span id="issueBadge"></span></button></div><div id="detailBody"></div></aside></section>
+<aside class="day-panel card"><div class="panel-heading"><div><div class="eyebrow">TODAY’S TRAY</div><h2 id="dayHeading"></h2></div><button class="icon-button" id="lockBtn" title="選択日の献立を固定"></button></div><div class="day-meta"><span id="daySub"></span><label>食数 <input id="countInput" type="number" min="0" max="100000" aria-label="選択日の食数"> 食</label></div><div class="tray-area"><div class="tray" id="tray" role="group" aria-label="一汁三菜の配膳。ご飯は左手前、汁物は右手前、主菜は右奥、副菜は左奥と中央"></div><div class="tray-caption">AI生成の盛り付けイメージ・参考写真のない料理は名称を表示</div></div><div id="dishList" class="dish-list"></div><div class="daily-nutrition" id="dailyNutrition"></div><div class="day-tabs"><button class="active" data-detail="ingredients">食材と必要量</button><button data-detail="checks">チェック結果 <span id="issueBadge"></span></button></div><div id="detailBody"></div></aside></section>
 <section class="bottom-grid"><div class="card summary-card"><div class="panel-heading"><div><div class="eyebrow">RULE CHECK</div><h2>計画のチェック</h2></div><button class="text-button" id="allChecksBtn">詳細を見る ↗</button></div><div id="checkSummary"></div></div><div class="card summary-card"><div class="panel-heading"><div><div class="eyebrow">PLANNING NOTES</div><h2>献立づくりのメモ</h2></div><span class="small muted">この月に保存</span></div><textarea id="notes" placeholder="行事食、納品日の変更、調理現場への申し送りなど…" aria-label="献立づくりのメモ"></textarea></div></section></div>
 <section class="card alternate-view" id="ingredientsView" hidden></section><section class="card alternate-view" id="sourcesView" hidden></section>
 <footer>献立スタジオ <span>毎日の食事を、ひとつの見通しに。</span><button class="text-button" id="importBtn">保存データを読み込む</button><input id="importFile" type="file" accept="application/json,.json" hidden></footer></main>
